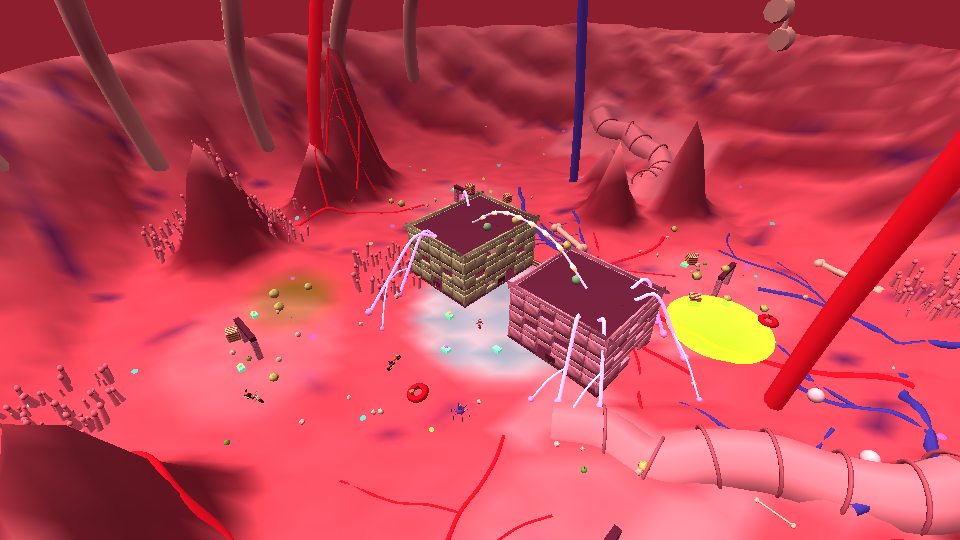
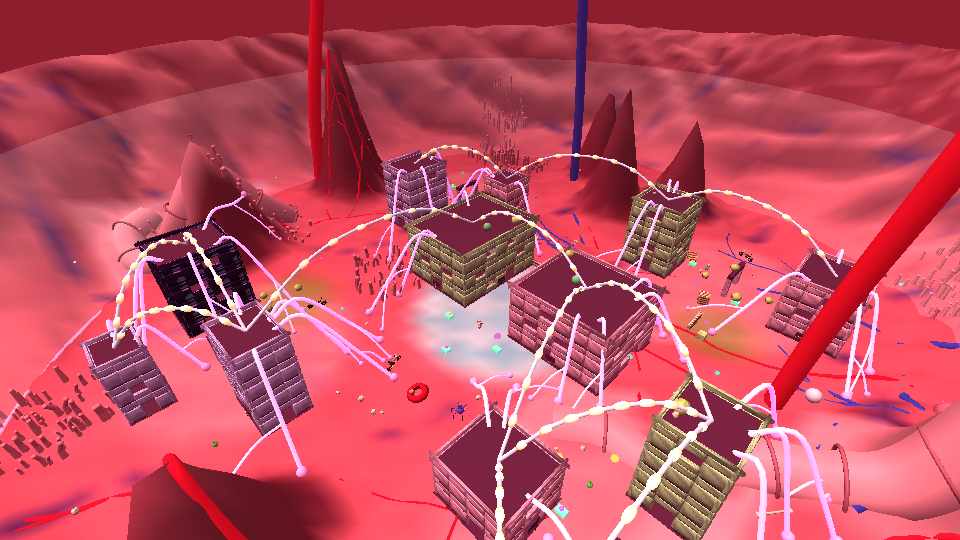
Gameplay: jump dashes ragdoll germs (two for brutes, four for giants), per-weapon stick curves and aim assist, smaller heroes, maps renamed for the host body, wave arenas bounded by a visible membrane, clusters with buildings in the Lymph Node
Claude-Session: https://claude.ai/code/session_01SZxYbjJjFpzcs3aZtkcRS6

diff --git a/src/GermBall/Game/World.Layout.cs b/src/GermBall/Game/World.Layout.cs
@@ -2,6 +2,7 @@ using System;
 using System.Collections.Generic;
 using System.Linq;
 using GermBall.Core;
+using GermBall.Render;
 using static GermBall.Core.M;
 
 namespace GermBall.Game;
@@ -41,13 +42,6 @@ public sealed partial class World
 {
     public const float HALF = 360; public const int SEG = 240; public const float CELL = HALF * 2 / SEG; public const int N = SEG + 1;
     public readonly BootConfig CFG;
-    public static readonly (string key, string name, string blurb)[] WAVE_MAPS =
-    {
-        ("bowl", "SPORE BOWL", "A glowing basin ringed by four ruined hamlets. Nowhere to hide for long."),
-        ("city", "GLASS CITY", "A dense grid of towers and alleys. Fights happen around corners."),
-        ("spires", "SPIRE GARDEN", "Needle peaks, two abandoned forts and a canyon cutting through."),
-        ("gut", "THE GULLET", "A churning stomach chamber inside the leviathan: an acid pit in the middle, ribs arching overhead, cells drifting past."),
-    };
 
     Layout LAYOUT; List<Pad> PADS; List<Crater> CRATERS; Mogul MOG; Pad HOMEPAD; float SPAWNX, SPAWNZ; List<Channel> CHANNELS;
 
@@ -122,6 +116,22 @@ public sealed partial class World
         return new Gut { Pts = pts, R = 3 + r() * 1.2f, MinX = minX - 6, MaxX = maxX + 6, MinZ = minZ - 6, MaxZ = maxZ + 6 };
     }
 
+    // the maps: every one is a place inside a host body
+    public static readonly (string key, string name, string blurb)[] SANDBOX_MAPS =
+    {
+        ("random", "Bloodstream", "Grown from a seed: a living host with cell colonies, biofilm camps and vessel trenches"),
+        ("classic", "Host Zero", "The original hand-laid host: a clinic, colonies and four biofilm camps"),
+        ("leviathan", "Belly of the Beast", "Swallowed whole: organs, coiled gut and acid pits under a dome of flesh"),
+    };
+    public static readonly (string key, string name, string blurb)[] WAVE_MAPS =
+    {
+        ("bowl", "Lymph Node", "A glowing node ringed by four cell clusters; nowhere to hide for long"),
+        ("city", "Neural Cortex", "Dense neuron towers wired by nerves; fights round corners and through rooms"),
+        ("spires", "Villus Ridge", "Needle villi, two biofilm forts and a vessel trench"),
+        ("gut", "The Gullet", "A stomach chamber round an acid pit"),
+    };
+    public static string MapName(string key) { foreach (var m in SANDBOX_MAPS) if (m.key == key) return m.name; foreach (var m in WAVE_MAPS) if (m.key == key) return m.name; return key; }
+
     static Layout MakeLayout(BootConfig cfg)
     {
         var L = new Layout();
@@ -176,7 +186,7 @@ public sealed partial class World
         {
             PadA(0, 0, 17, 8, "base", "HOME BASE", 14);
             string[] dir = { "NORTH", "EAST", "SOUTH", "WEST" };
-            for (int i = 0; i < 4; i++) { float a = i / 4f * 6.28f + 0.6f; PadA(MathF.Cos(a) * 44, MathF.Sin(a) * 44, 15, 7 + i * 0.5f, "town", dir[i] + " HAMLET", 12); }
+            for (int i = 0; i < 4; i++) { float a = i / 4f * 6.28f + 0.6f; PadA(MathF.Cos(a) * 46, MathF.Sin(a) * 46, 19, 7 + i * 0.5f, "town", dir[i] + " CLUSTER", 12); }
             L.Craters = new() { new() { X = 30, Z = -24, R = 7, D = 3 }, new() { X = -32, Z = 26, R = 8, D = 3 } };
             L.Bowl = new Bowl { R = 74, H = 34 }; L.Spires = 8; L.SpireR = 70; L.Hue = 0.12f; L.Sky = 1; L.Amp = 0.6f;
         }
@@ -276,5 +286,25 @@ public sealed partial class World
         HOMEPAD = PADS.First(p => p.Kind == "base");
         SPAWNX = HOMEPAD.X; SPAWNZ = HOMEPAD.Z + 6;
         CHANNELS = LAYOUT.Chans.Select(c => c is string s ? (s == "canyon" ? Canyon() : Gully()) : MakeChannel((ChannelDef)c)).ToList();
+    }
+}
+
+public sealed partial class World
+{
+    /// <summary>The wave arena's bound: the foot of the basin wall.</summary>
+    public float ArenaR => LAYOUT.Bowl != null ? LAYOUT.Bowl.R + 4 : float.MaxValue;
+    Mesh membrane;
+    /// <summary>In wave mode the arena's edge is a visible cell membrane: a faint, glowing curtain you can see through.</summary>
+    void BuildMembrane()
+    {
+        if (LAYOUT.Bowl == null) return;
+        float R2 = ArenaR, lo = float.MaxValue;
+        for (int k = 0; k < 32; k++) { float a = k / 32f * TAU; lo = MathF.Min(lo, TerrainH(MathF.Cos(a) * R2, MathF.Sin(a) * R2)); }
+        var mat = new Material { Kind = MatKind.Basic, Color = C(0x9affef), Transparent = true, Opacity = 0.13f, Blending = Blend.Additive, DepthWrite = false, Side = Side.Double };
+        membrane = new Mesh(Geo.Cylinder(R2, R2, 34, 96, 1, true), mat) { Position = new System.Numerics.Vector3(0, lo + 15, 0), RenderOrder = 2, FrustumCulled = false };
+        scene.Add(membrane);
+        // a brighter seam where it meets the floor
+        var seam = new Material { Kind = MatKind.Basic, Color = C(0xff9ae8), Transparent = true, Opacity = 0.5f, Blending = Blend.Additive, DepthWrite = false };
+        scene.Add(new Mesh(Geo.Torus(R2, 0.25f, 6, 128).RotateX(PI / 2), seam) { Position = new System.Numerics.Vector3(0, lo + 0.3f, 0), FrustumCulled = false });
     }
 }

diff --git a/src/GermBall/Game/World.Damage.cs b/src/GermBall/Game/World.Damage.cs
@@ -20,6 +20,8 @@ public sealed class Chip { public V3 pos, pp, vel, w, ell; public Q4 q, pq; publ
 
 public sealed partial class Actor
 {
+    /// <summary>Jump dashes landed on this germ recently, and when the last one landed.</summary>
+    public int dashHits; public float dashHitT = -99;
     public string lastHurtKind; public Actor lastTarget; public float lastTargetT; public bool[] lost; public Actor pilotBy, mech; public bool pilot => pilotBy != null;
     public Body lastProp; public float lastPropT;
     public float hitByVeh; public bool hidden; public float needleT; public Actor needleSrc; public float flatMax, animFlatT, animFlatMax, animSwingDur; public string animSwingStyle; public bool animSwingFin;
@@ -357,15 +359,23 @@ public sealed partial class World
                     Sfx("slam", Vp.x, Vp.y + 1, Vp.z, 1); if (victim.human) cam.shake = MathF.Max(cam.shake, 0.6f);
                     return;
                 }
-                bool homingHit = H.homingT > 0 && H.homeTgt == victim;
-                if (homingHit)
-                {   // the homing strike: small germs burst outright, everything else takes a heavy hit and can't counter
-                    if (victim.type == "small" || victim.type == "assassin" || (TYPES[victim.type].Fragile)) KillActor(victim, new Dmg { src = hitter, fx = nx * dir * speed * 1.5f, fz = nz * dir * speed * 1.5f });
-                    else
+                bool homingHit = H.homingT > 0 && H.homeTgt == victim, airDash = !H.ground && H.dashT > 0 && hitter.team == "hero";
+                if (homingHit || airDash)
+                {   // a jump dash: it takes one to throw a coccus, bacillus or spirillum into a ragdoll, two for a brute, four for the giants.
+                    // Hits short of that stagger them (and can't be countered); the count runs out if you don't follow up
+                    var VG = victim.P; int need = victim.isBoss || TYPES[victim.type].Big || victim.type == "mech" ? 4 : victim.type == "brute" ? 2 : 1;
+                    if (clockT - victim.dashHitT > 8) victim.dashHits = 0;
+                    victim.dashHits++; victim.dashHitT = clockT;
+                    float dmgK = homingHit ? 1 : 0.6f;
+                    DamageActor(victim, (need >= 4 ? 30 : need == 2 ? 40 : 45) * dmgK * MathF.Max(1, speed / 25), new Dmg { src = hitter, kind = "melee", fx = nx * dir, fz = nz * dir, knock = big ? 3 : 6, up = 3 });
+                    if (VG.alive && victim.dashHits >= need)
                     {
-                        DamageActor(victim, (victim.type == "brute" ? 55 : victim.type == "mech" ? 40 : 70) * MathF.Max(1, speed / 25), new Dmg { src = hitter, kind = "melee", fx = nx * dir, fz = nz * dir, knock = big ? 3 : 6, up = 3 });
-                        if (victim.P.alive) Knockdown(victim, big ? 0.9f : 1.3f, nx * dir * speed * (big ? 0.25f : 0.6f), 5, nz * dir * speed * (big ? 0.25f : 0.6f));
+                        victim.dashHits = 0;
+                        float fling = need >= 4 ? 0.35f : need == 2 ? 0.55f : 0.8f;
+                        StartRagdoll(victim, nx * dir * speed * fling, 6 + speed * 0.12f, nz * dir * speed * fling, need >= 4 ? 2.2f : 1.6f);
+                        if (hitter.human && need > 1) ShowHint(need >= 4 ? "THE GIANT GOES DOWN" : "BRUTE FLOORED");
                     }
+                    else if (VG.alive) { VG.stunT = MathF.Max(VG.stunT, need >= 4 ? 0.35f : 0.6f); if (hitter.human && need > 1) ShowHint($"DASH {victim.dashHits}/{need}"); }
                     // bounce off upward so you can chain into the next target
                     H.vx = -nx * dir * 4; H.vz = -nz * dir * 4; H.vy = 11; H.homingT = 0; H.homeTgt = null; H.dashUsed = false; H.stunT = 0;
                     Sfx("supercombine", Vp.x, Vp.y + 1, Vp.z, 1); if (hitter.human) { Rumble(1, 1, 220); cam.shake = MathF.Max(cam.shake, 0.45f); HITSTOP = MathF.Max(HITSTOP, 0.06f); }

diff --git a/src/GermBall/Game/World.Main.cs b/src/GermBall/Game/World.Main.cs
@@ -230,7 +230,7 @@ public sealed partial class World
     {
         sens *= SET.sens; if (SET.invertY) dy = -dy;
         if (FREECAM.on) { float k = FREECAM.fov / 70; FREECAM.yaw -= dx * sens * k; FREECAM.pitch = Clamp(FREECAM.pitch - dy * sens * k, -1.5f, 1.5f); return; }
-        sens *= Lerp(1, SET.adsSens, cam.ads); cam.yaw -= dx * sens; cam.pitch = Clamp(cam.pitch + dy * sens, PitchMin, PitchMax); cam.lastLook = clockT;
+        sens *= Lerp(1, SET.adsSens * AimProfOf(ME).MouseAds / 0.75f, cam.ads); cam.yaw -= dx * sens; cam.pitch = Clamp(cam.pitch + dy * sens, PitchMin, PitchMax); cam.lastLook = clockT;
     }
 
     // =====================================================================
@@ -580,12 +580,13 @@ public sealed partial class World
     {
         assistOn = false;
         if (!padActive || !AIM.ok || !P.alive) return;
-        float cone = cam.ads > 0.5f ? 0.13f : 0.09f, ba = cone; float bx = 0, by = 0, bz = 0; bool found = false;
+        var ap = AimProfOf(ME);
+        float cone = cam.ads > 0.5f ? ap.ConeAds : ap.Cone, ba = cone; float bx = 0, by = 0, bz = 0; bool found = false;
         foreach (var B in actors)
         {
             if (B.team == "hero" || !B.P.alive || B.dormant) continue;
             var G = B.P; float dx = G.x - AIM.px, dy = G.y + G.H * 0.6f - AIM.py, dz = G.z - AIM.pz, d = Hypot(dx, dy, dz);
-            if (d > 85 || d < 2) continue;
+            if (d > ap.Range || d < 1.2f) continue;
             float a = MathF.Acos(Clamp((dx * AIM.fx + dy * AIM.fy + dz * AIM.fz) / d, -1, 1)) - MathF.Atan2(G.R, d);
             if (a < ba) { ba = a; bx = dx / d; by = dy / d; bz = dz / d; found = true; }
         }
@@ -593,7 +594,7 @@ public sealed partial class World
         assistOn = true;
         bool engaged = pad.rt > 0.3f || pad.lt > 0.4f || Hypot(pad.lx, pad.ly) > 0.2f || Hypot(pad.rx, pad.ry) > 0.1f;
         if (!engaged) return;
-        float k = MathF.Min(1, fdt * (cam.ads > 0.5f ? 3.2f : 2.2f)) * 0.45f;
+        float k = MathF.Min(1, fdt * (cam.ads > 0.5f ? 3.2f : 2.2f)) * ap.Pull;
         float wantYaw = MathF.Atan2(-bx, -bz), curYaw = MathF.Atan2(-AIM.fx, -AIM.fz);
         cam.yaw += WrapAngle(wantYaw - curYaw) * k;
         cam.pitch = Clamp(cam.pitch - (MathF.Asin(Clamp(by, -1, 1)) - MathF.Asin(Clamp(AIM.fy, -1, 1))) * k, PitchMin, PitchMax);
@@ -607,12 +608,17 @@ public sealed partial class World
         if (PadHit("back")) BackToBase();
         if (PadHit("y")) CycleWeapon(ME, 1);
         if (PadHit("rs")) { cam.yaw = P.facing; cam.pitch = SET.fp ? 0 : 0.3f; }
+        var ap = AimProfOf(ME);
         if (pad.rx != 0 || pad.ry != 0)
         {
-            float cx = MathF.Sign(pad.rx) * MathF.Pow(MathF.Abs(pad.rx), 1.5f), cy = MathF.Sign(pad.ry) * MathF.Pow(MathF.Abs(pad.ry), 1.5f);
-            float ks = Lerp(1, SET.adsSens * 0.9f, cam.ads) * (assistOn ? 0.62f : 1) * SET.padSens;
-            cam.yaw -= cx * 3.2f * ks * fdt; cam.pitch = Clamp(cam.pitch + cy * 2.0f * ks * fdt * (SET.invertY ? -1 : 1), PitchMin, PitchMax); cam.lastLook = clockT;
+            float cx = MathF.Sign(pad.rx) * MathF.Pow(MathF.Abs(pad.rx), ap.Curve), cy = MathF.Sign(pad.ry) * MathF.Pow(MathF.Abs(pad.ry), ap.Curve);
+            // a stick held hard over ramps the turn up after a moment (for whipping round), a gentle stick stays precise
+            stickPinnedT = Hypot(pad.rx, pad.ry) > 0.95f ? stickPinnedT + fdt : 0;
+            float ramp = 1 + (ap.Ramp - 1) * Clamp((stickPinnedT - 0.2f) / 0.35f, 0, 1) * (1 - cam.ads);
+            float ks = Lerp(1, SET.adsSens * ap.Ads / 0.7f * 0.9f, cam.ads) * (assistOn ? ap.Slow : 1) * SET.padSens * ramp;
+            cam.yaw -= cx * ap.Turn * ks * fdt; cam.pitch = Clamp(cam.pitch + cy * ap.Turn * 0.62f * ks * fdt * (SET.invertY ? -1 : 1), PitchMin, PitchMax); cam.lastLook = clockT;
         }
+        else stickPinnedT = 0;
         PadAimAssist(fdt);
     }
 

diff --git a/src/GermBall/Game/World.Actors.cs b/src/GermBall/Game/World.Actors.cs
@@ -130,11 +130,11 @@ public sealed partial class World
         string[] all = { "small", "normal", "hero", "ally", "ally2", "ally3", "assassin" };
         var t = new Dictionary<string, ActorType>
         {
-            ["hero"] = new() { S = 1.05f, F = 1.32f, Km = 1, Hp = 1, Carry = 170, LiftMen = new[] { "small", "assassin" }, Label = "you" },
+            ["hero"] = new() { S = 0.93f, F = 1.32f, Km = 1, Hp = 1, Carry = 170, LiftMen = new[] { "small", "assassin" }, Label = "you" },
             // the companions: Volt the marksman (tall and lean), Brick the tank (wide and heavy), Wisp the scout (small and quick)
-            ["ally"] = new() { S = 1.1f, F = 1.1f, Km = 1, Hp = 1, Carry = 170, LiftMen = new[] { "small", "assassin" }, Label = "Volt" },
-            ["ally2"] = new() { S = 1.2f, F = 1.85f, Km = 0.92f, Hp = 1.5f, Carry = 900, LiftMen = new[] { "small", "assassin", "normal" }, Label = "Brick" },
-            ["ally3"] = new() { S = 0.94f, F = 0.92f, Km = 1.14f, Hp = 0.8f, Carry = 120, LiftMen = new[] { "small" }, Label = "Wisp" },
+            ["ally"] = new() { S = 0.97f, F = 1.1f, Km = 1, Hp = 1, Carry = 170, LiftMen = new[] { "small", "assassin" }, Label = "Volt" },
+            ["ally2"] = new() { S = 1.06f, F = 1.85f, Km = 0.92f, Hp = 1.5f, Carry = 900, LiftMen = new[] { "small", "assassin", "normal" }, Label = "Brick" },
+            ["ally3"] = new() { S = 0.84f, F = 0.92f, Km = 1.14f, Hp = 0.8f, Carry = 120, LiftMen = new[] { "small" }, Label = "Wisp" },
             ["small"] = new() { S = 0.92f, F = 1.7f, Km = 0.8f, Hp = 0.45f, Carry = 50, LiftMen = Array.Empty<string>(), Label = "coccus" },
             ["normal"] = new() { S = 1.2f, F = 1.36f, Km = 0.74f, Hp = 1, Carry = 170, LiftMen = new[] { "small", "assassin" }, Label = "bacillus trooper" },
             ["brute"] = new() { S = 1.68f, F = 1.55f, Km = 0.62f, Hp = 3.2f, Carry = 2600, LiftMen = all, Label = "amoeba brute" },
@@ -276,8 +276,8 @@ public sealed partial class World
             }
         }
         if (LAYOUT.Bowl != null)
-        {   // wave arenas: a soft wall a little way up the basin
-            float d = Hypot(P.x, P.z), R2 = LAYOUT.Bowl.R + 16;
+        {   // wave arenas: the cell membrane at the foot of the basin wall keeps the fight on the floor
+            float d = Hypot(P.x, P.z), R2 = ArenaR;
             if (d > R2) { P.x *= R2 / d; P.z *= R2 / d; float vn = (P.vx * P.x + P.vz * P.z) / (R2 * R2); if (vn > 0) { P.vx -= vn * P.x * 1.3f; P.vz -= vn * P.z * 1.3f; } }
         }
         float lim = HALF - 30;

diff --git a/src/GermBall/Game/World.Aim.cs b/src/GermBall/Game/World.Aim.cs
@@ -1,0 +1,40 @@
+using System;
+using GermBall.Core;
+using static GermBall.Core.M;
+
+namespace GermBall.Game;
+
+/// <summary>
+/// Aiming feel per weapon: how the right stick maps to turning (the response curve's exponent, top turn speed, how
+/// much it slows when aiming down sights, and how fast a fully pushed stick ramps up), and the aim assist (the cone it
+/// looks in, hip and aimed, how hard it pulls toward a target, how much it slows your turning over one, and its range).
+/// Shotguns get a wide, sticky, short assist; scoped rifles a narrow cone, a precise curve and strong slowdown; launchers
+/// and bows little pull (you lead your shots); SMGs and beams track; melee snaps to whatever's in front of you.
+/// </summary>
+public sealed partial class World
+{
+    public readonly record struct AimProf(float Curve, float Turn, float Ads, float Ramp, float Cone, float ConeAds, float Pull, float Slow, float Range, float MouseAds);
+
+    static readonly AimProf AIM_DEFAULT = new(1.5f, 3.2f, 0.7f, 1.5f, 0.09f, 0.13f, 0.45f, 0.62f, 85, 0.75f);
+    public AimProf AimProfOf(Actor A)
+    {
+        if (A == null) return AIM_DEFAULT;
+        var w = CurWpn(A); var d = CurDef(A);
+        if (w == null) return new(1.3f, 3.8f, 1, 1.6f, 0.2f, 0.2f, 0.7f, 0.8f, 6, 1);   // fists
+        return d.Id switch
+        {
+            "revolver" => new(1.6f, 3.0f, 0.6f, 1.4f, 0.08f, 0.12f, 0.55f, 0.55f, 70, 0.7f),
+            "smg" => new(1.5f, 3.3f, 0.75f, 1.6f, 0.12f, 0.15f, 0.5f, 0.7f, 50, 0.8f),
+            "rifle" or "needler" => new(1.5f, 3.1f, 0.65f, 1.5f, 0.09f, 0.13f, 0.5f, 0.6f, 80, 0.7f),
+            "shotgun" => new(1.3f, 3.8f, 0.8f, 1.7f, 0.17f, 0.21f, 0.65f, 0.72f, 22, 0.85f),
+            "sniper" or "hunting" => new(2.0f, 2.6f, 0.38f, 1.25f, 0.045f, 0.06f, 0.22f, 0.4f, 170, 0.45f),
+            "hmg" => new(1.5f, 2.4f, 0.7f, 1.35f, 0.12f, 0.15f, 0.55f, 0.6f, 70, 0.8f),
+            "rocket" or "chargecannon" or "mechbomb" or "mechhoming" => new(1.6f, 2.6f, 0.6f, 1.4f, 0.07f, 0.09f, 0.28f, 0.5f, 90, 0.7f),
+            "bow" => new(1.8f, 3.0f, 0.55f, 1.4f, 0.07f, 0.1f, 0.33f, 0.5f, 90, 0.6f),
+            "armcannon" => new(1.4f, 3.0f, 0.7f, 1.5f, 0.1f, 0.13f, 0.6f, 0.65f, 45, 0.8f),
+            "pistol" or "laserpistol" or "plasma" or "darts" or "knives" => new(1.4f, 3.4f, 0.75f, 1.6f, 0.1f, 0.14f, 0.5f, 0.65f, 60, 0.8f),
+            _ => d.Type == "melee" ? new(1.3f, 3.8f, 1, 1.6f, 0.2f, 0.2f, 0.7f, 0.8f, 6, 1) : AIM_DEFAULT,
+        };
+    }
+    float stickPinnedT;
+}

diff --git a/src/GermBall/UI/TitleScreen.cs b/src/GermBall/UI/TitleScreen.cs
@@ -17,17 +17,8 @@ namespace GermBall.UI;
 public sealed class TitleScreen : IScreen
 {
     sealed class BootPrefs { public string smap = "random", wmap = "bowl", seed = ""; }
-    static readonly (string key, string name, string blurb)[] SMAPS =
-    {
-        ("random", "Random world", "Generated from a seed: terrain, cell towns, camps, canyons"),
-        ("classic", "Classic range", "The original hand-laid map"),
-        ("leviathan", "Inside the leviathan", "The guts of something enormous and alive"),
-    };
-    static readonly (string key, string name, string blurb)[] WMAPS =
-    {
-        ("bowl", "Spore Bowl", "A glowing basin ringed by four ruined cell hamlets"), ("city", "Glass City", "Dense cell towers and alleys; fights round corners"),
-        ("spires", "Spire Garden", "Needle peaks, two old forts and a canyon"), ("gut", "The Gullet", "A stomach chamber round an acid pit"),
-    };
+    static readonly (string key, string name, string blurb)[] SMAPS = World.SANDBOX_MAPS;
+    static readonly (string key, string name, string blurb)[] WMAPS = World.WAVE_MAPS;
 
     readonly App app; readonly Gui gui = new(); readonly BootPrefs boot;
     string loading = ""; Task<World> building; bool seedFocus; bool lopezFlip; float lopezK; float T;

diff --git a/src/GermBall/Game/World.Buildings.cs b/src/GermBall/Game/World.Buildings.cs
@@ -369,7 +369,7 @@ public sealed partial class World
             {
                 var T = new Place { x = p.X, z = p.Z, r = R2, y = y, name = p.Name };
                 // a loose grid of blocks with 7 m streets
-                bool small = R2 < 30; float cell = small ? 16 : R2 > 50 ? 28 : 26, bk = small ? 0.62f : 1; int nb0 = BLDG.Count;
+                bool small = R2 < 30; float cell = small ? 15 : R2 > 50 ? 28 : 26, bk = small ? 0.62f : 1; int nb0 = BLDG.Count;
                 int span = Math.Max(1, (int)MathF.Floor((R2 - (small ? 4 : 6)) / cell));
                 var plaza = PADS.FirstOrDefault(q => q != p && q.Kind == "base" && Hypot(q.X - p.X, q.Z - p.Z) < R2);   // a base inside the town keeps its square clear
                 for (int gi = -span; gi <= span; gi++) for (int gj = -span; gj <= span; gj++)

diff --git a/src/GermBall/Game/World.EnemyBrain.cs b/src/GermBall/Game/World.EnemyBrain.cs
@@ -382,7 +382,7 @@ public sealed partial class World
         WAVES.on = CFG.Mode == "waves";
         WAVES.best = Saves.Best(CFG.Map);
         if (!WAVES.on) return;
-        float Rr = LAYOUT.Bowl != null ? LAYOUT.Bowl.R + 4 : 130;   // up on the rim of the basin
+        float Rr = LAYOUT.Bowl != null ? ArenaR - 3 : 130;   // they come in through the membrane at the edge of the arena
         for (int i = 0; i < 12; i++)
         {
             float a = i / 12f * TAU, x = MathF.Cos(a) * Rr, z = MathF.Sin(a) * Rr; int k = 0;

diff --git a/src/GermBall/Game/World.Init.cs b/src/GermBall/Game/World.Init.cs
@@ -28,7 +28,7 @@ public sealed partial class World
         InitPropMats();
         BuildLayout(); BuildNerves(); Mark("buildings");
         PlaceProps();
-        BuildLeviathan(); Mark("leviathan");
+        BuildLeviathan(); BuildMembrane(); Mark("leviathan");
         InitSprites();
         InitWaves();
         BuildGerms(); InitDrawLists(); InitReticles(); Mark("germs");
